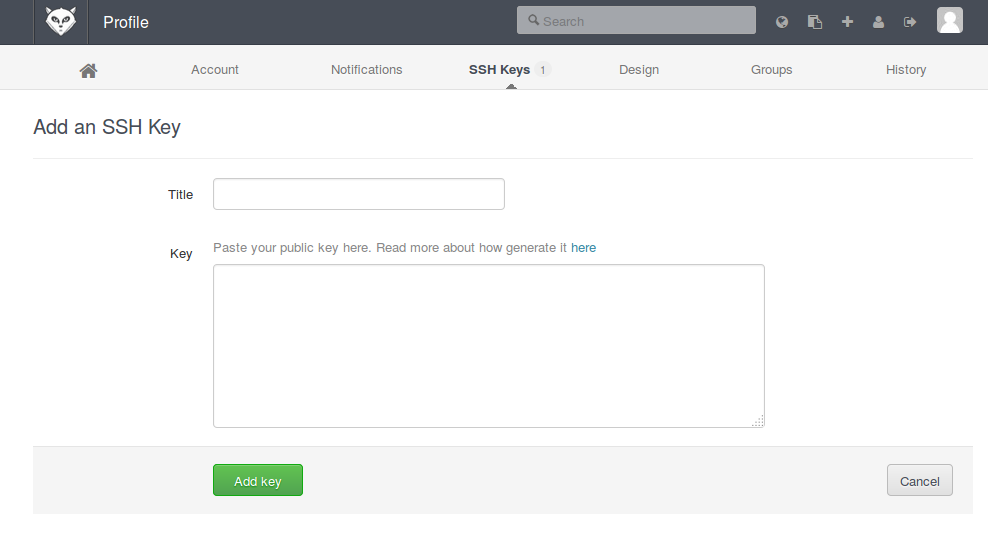
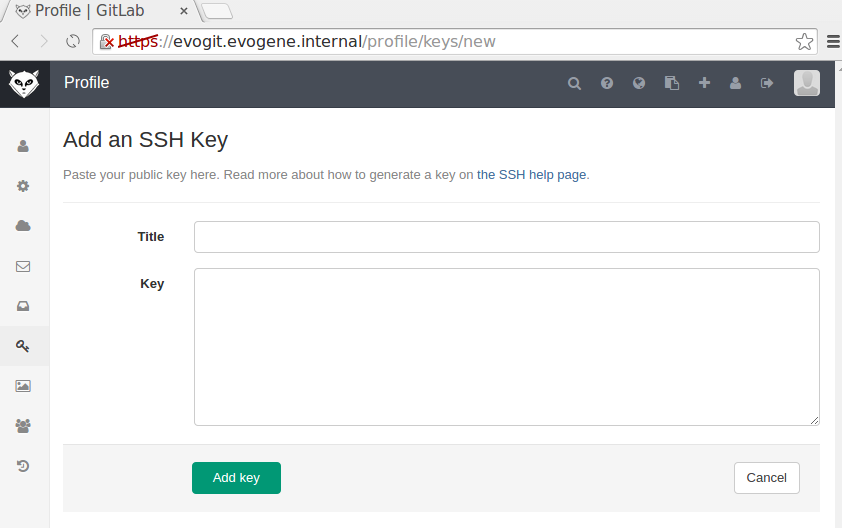
evogit talk

diff --git a/talks/evogit.md b/talks/evogit.md
@@ -90,11 +90,28 @@ Also:
 
 ---
 
-## Result
+## Consequences
 
-* Flexible
-* Inconsistent
-* Fragile
+### Flexible
+
+We can work on different projects in the same repository without bothering each other.
+
+### Inconsistent
+
+Two developers can test against different sets of files, and their working
+directories will have different files than the production site.
+
+There is no "release" or "tested version" inside Subversion.
+
+### Fragile
+
+If we change two different files that depend on each other, we can both
+commit our changes without testing against each other's changes, and push
+this to production.
+
+BOOM
+
+
 
 ---
 
@@ -173,6 +190,8 @@ Merge your changes into the remote branch (update the server):
 
 "Server" is just a remote git repository.
 
+By convention, the remote git repository we cloned from is called `origin`.
+
 ---
 
 ## All together:
@@ -218,7 +237,6 @@ commits:
 
 ---
 
-
 The local git environment is made up of 3 parts:
 
 1. The working directory (the files you see).
@@ -236,7 +254,7 @@ The local git environment is made up of 3 parts:
 
 ---
 
-## Status
+## Current situation
 
 What's tracked, what's changed, what's been added/removed, what branch are we on, etc
 
@@ -256,19 +274,9 @@ Show changes
 
 Show history
 
-    git log
+    git log (... or git lg for nicer formatting)
 
-Or, in a compact, pretty format:
-
-    git lg
-
-(`lg` is a `git alias`, its really `log` with a few formatting flags)
-
-Show contents of a commit (as a diff/patch):
-
-    git show 3ae2235179fe487096d715807e6346c2302d377d
-
-This also works:
+To examine an old commit (as a diff/patch):
 
     git show 3ae2235179
 
@@ -415,6 +423,19 @@ Edit the conflicted files, then add them:
 
 ---
 
+## Important Note: Rewriting History
+
+* `git rebase` let's you rewrite history.
+* This allows you to create a cleaner history, for example before merging a
+branch into master.
+* However, you should never rewrite **published** history.
+
+* Specifically, **never** rebase `master` on any branch *except*
+`origin/master`.
+
+
+---
+
 ## GitLab
 
 [GitLab](https://about.gitlab.com/) is a web interface for a central git repository
@@ -425,9 +446,9 @@ Installed at [evogit.evogene.internal](https://evogit.evogene.internal)
 
 ---
 
-## Evogit Setup
+## GitLab Setup
 
-Login to evogit (Evogene password)
+Login to GitLab (Evogene password)
 ![](/gitlab_login.png)
 
 ---
@@ -438,7 +459,9 @@ Login to evogit (Evogene password)
 
 ---
 
-## Leftover slides
+## SSH Keys
+
+![](/gitlab_ssh_keys.png)
 
 ---
 
@@ -455,6 +478,8 @@ Next just use code below to dump your public key and add to GitLab SSH Keys
     # ssh-rsa AAAAB3NzaC1yc2EAAAADAQABAAABAQC6eNtGpNGwstc....
 
 ---
+
+## Add SSH Key
 
 Paste it in your profile
 
